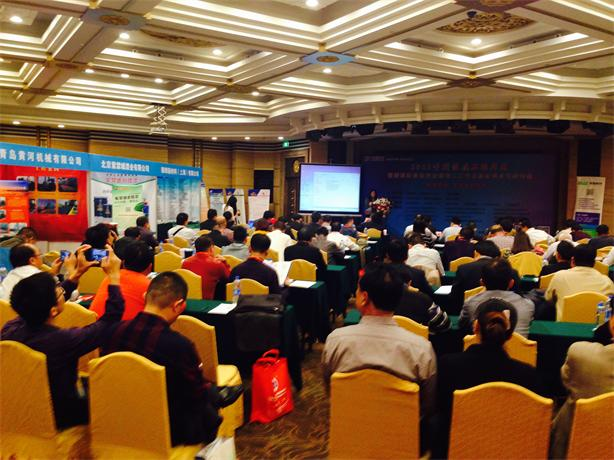
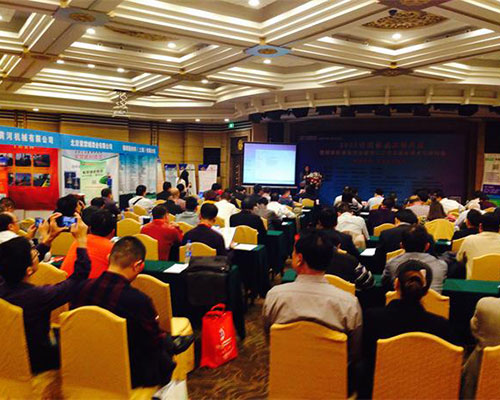
change img size

diff --git a/news.html b/news.html
@@ -323,7 +323,7 @@
           </tr>
           
           <tr>
-            <td><img src="css/img/news11-1.png"><img src="css/img/news11-2.png"></td>
+            <td><img src="css/img/news12-1.jpg"><img src="css/img/news12-2.jpg"></td>
           </tr>
 
           <tr>
